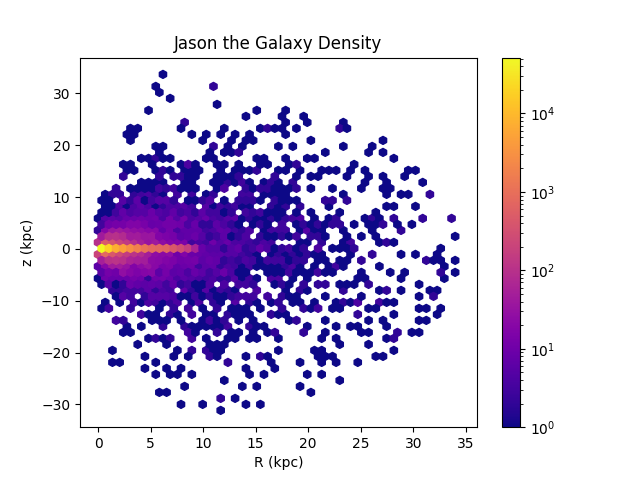
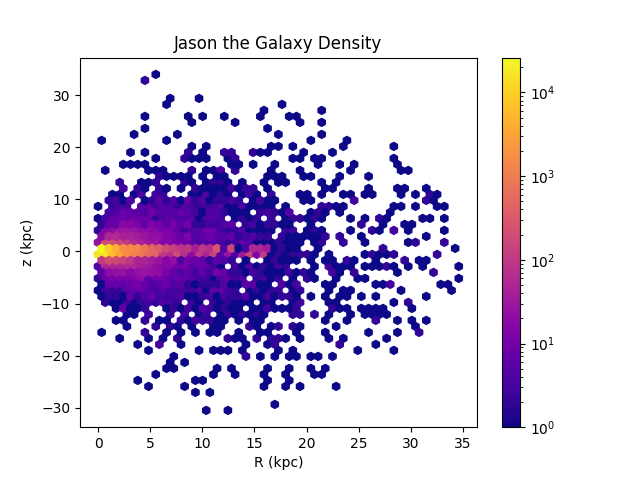
Updated rotational velocity function and added t_dyn

diff --git a/backend/galaxy_distribution2.py b/backend/galaxy_distribution2.py
@@ -3,33 +3,54 @@ import matplotlib.pyplot as plt
 import json
 import astropy.units as u
 from mcmc import metropolis_hastings
-from galpy.potential import MiyamotoNagaiPotential, HernquistPotential, NFWPotential
+from galpy.potential import MiyamotoNagaiPotential, HernquistPotential, NFWPotential, vcirc, tdyn, mass
 from galaxy_intitialisation import elliptical_galaxy_gen
+from tqdm import tqdm
 
 # Galaxy generation function
 class Galaxy:
-    def __init__(self, name, components, num_bodies=1000000, g_const=1, pos_units=u.kpc, vel_units=u.km/u.s, mass_units=u.M_sun, density_units=u.M_sun/u.kpc**3, potential_units=u.km**2/u.s**2, time_units=u.Gyr, angle_units=u.rad):
-        self.name = name
-        self.components = components
+    def __init__(self, json_file, num_bodies=1000000, g_const=1, force_update=False, pos_units=u.kpc, vel_units=u.km/u.s, mass_units=u.M_sun, density_units=u.M_sun/u.kpc**3, potential_units=u.km**2/u.s**2, time_units=u.Gyr, angle_units=u.rad):
+        # Load JSON file
+        with open(json_file, 'r') as f:
+            galaxy_json = json.load(f)
+        
+        self.file = json_file
+        self.name = galaxy_json['name']
+        self.components = galaxy_json['components']
         self.num_bodies = num_bodies
         self.g_const = g_const
         self.total_mass = self.get_total_mass()
         
-        # Set component potentials to galpy potentials using astropy units
-        for component in self.components:
-            for potential in component['potentials']:
-                if potential['type'] == 'Miyamoto-Nagai':
-                    parameters = potential['parameters']
-                    potential['galpy_potential'] = MiyamotoNagaiPotential(a=parameters['a']*pos_units, b=parameters['b']*pos_units, normalize=1)
-                elif potential['type'] == 'Hernquist':
-                    parameters = potential['parameters']
-                    potential['galpy_potential'] = HernquistPotential(a=parameters['a']*pos_units)
-                elif potential['type'] == 'NFW':
-                    potential['parameters'].update({'normalise': 1})
-                    potential['galpy_potential'] = NFWPotential(a=parameters['a']*pos_units)
+            
+
+        # Determine whether we need to initalise the galaxy or load it from a file
+        ## Checking that all non-dark matter components have bodies
+        if all('bodies' in component and not component['dark matter'] for component in self.components) and not force_update:
+            total_bodies = sum(len(component['bodies']['positions']) for component in self.components)
+            if np.isclose(total_bodies, num_bodies, rtol=0.1):
+                print(f"Galaxy '{self.name}' is already initalised to specified number of bodies")
+                print("Reinitialising potenials...")
+                self.set_galpy_potentials(pos_units, mass_units)
+            else:
+                print(f"Galaxy '{self.name}' has an incorrect number of bodies ({total_bodies} bodies)")
+                print("Reinitialising galaxy...")
+                self.initialise_galaxy(pos_units, mass_units)
+        else:
+            if force_update:
+                print("Forcing galaxy reinitialisation...")
+            else:
+                print(f"Galaxy '{self.name}' has no bodies")
+                print("Initialising galaxy...")
+            self.initialise_galaxy(pos_units, mass_units)
+        
+    # Initialise galaxy from the provided JSON file
+    def initialise_galaxy(self, pos_units, mass_units):
+        # Set galpy potentials for each component
+        self.set_galpy_potentials(pos_units, mass_units)
         
         # Calculate total potential of galaxy to use for rotational velocity
         self.total_potential = self.get_total_potential()
+        self.rotational_velocities = []
         
         # Generate bodies from components
         for component in self.components:
@@ -37,8 +58,27 @@ class Galaxy:
                 num_bodies_comp = round((self.get_component_mass(component)/self.total_mass) * self.num_bodies) # Number of bodies in component
                 positions = self.generate_positions(component, num_bodies_comp)
                 velocities = self.generate_velocities(positions, self.total_potential)
-                component.update({'bodies': {'positions': positions, 'velocities': velocities}})
-                  
+                masses = np.full(num_bodies_comp, self.get_component_mass(component)/num_bodies_comp)
+                component.update({'bodies': {'positions': positions, 'velocities': velocities, 'masses': masses}})
+                
+        # Update JSON file with galaxy data
+        #self.export_galaxy(f'backend/galaxies/{self.name}.json')
+    
+    # Set galpy potentials for each component
+    def set_galpy_potentials(self, pos_units, mass_units):
+        # Set component potentials to galpy potentials using astropy units
+        for component in self.components:
+            for potential in component['potentials']:
+                if potential['type'] == 'Miyamoto-Nagai':
+                    parameters = potential['parameters']
+                    potential['galpy_potential'] = MiyamotoNagaiPotential(amp=parameters['mass']*mass_units, a=parameters['a']*pos_units, b=parameters['b']*pos_units)
+                elif potential['type'] == 'Hernquist':
+                    parameters = potential['parameters']
+                    potential['galpy_potential'] = HernquistPotential(amp=parameters['mass']*mass_units, a=parameters['a']*pos_units)
+                elif potential['type'] == 'NFW':
+                    potential['parameters'].update({'normalise': 1})
+                    potential['galpy_potential'] = NFWPotential(amp=parameters['mass']*mass_units, a=parameters['a']*pos_units)
+        
                     
     # Get total mass of galaxy from all components    
     def get_total_mass(self):
@@ -63,9 +103,11 @@ class Galaxy:
             for potential in component['potentials']:
                 potentials.append(potential['galpy_potential'])
         
-        total_potential = potentials[0]
-        for potential in potentials[1:]:
-            total_potential += potential
+        total_potential = potentials
+        """for potential in potentials[1:]:
+            total_potential.__add__(potential)"""
+        
+        print(f"Total potential: {total_potential}")
         
         return total_potential
     
@@ -135,11 +177,54 @@ class Galaxy:
                         max_radius = potential['parameters']['a']
         return max_radius
     
-    def generate_velocities(self, bodies, total_potential):
-        pass
+    def generate_velocities(self, positions, total_potential):
+        velocities = np.empty((0, 3))
+        
+        for position in tqdm(positions):
+            radius = np.sqrt(position[0]**2 + position[1]**2 + position[2]**2)
+            
+            # Calculate the rotational speed of the body
+            #v_circ = total_potential.vcirc(radius)
+            v_circ = vcirc(total_potential, radius * u.kpc) #!!
+            
+            # Find the unit vector perpendicular to the direction of the body
+            velocities_direction = np.array([-position[1], position[0], 0])
+            velocities_direction /= np.linalg.norm(velocities_direction)
+            
+            # Calculate the rotational velocity of the body
+            velocity = velocities_direction * v_circ
+            velocities = np.vstack((velocities, velocity))
+            self.rotational_velocities.append([v_circ, radius])
+        
+        return velocities
     
     def plot_rotational_vel(self):
-        pass
+        r = np.linspace(1e-10, self.get_galaxy_max_radius(), 1000)
+        
+        plt.figure()
+        
+        for component in self.components:
+            total_component_potential = component['potentials'][0]['galpy_potential']
+            for potential in component['potentials'][1:]:
+                total_component_potential.__add__(potential['galpy_potential'])
+            v_circ_component = total_component_potential.vcirc(r * u.kpc)
+            #print(f"v_circ for {component['name']}: {v_circ_component}")
+            
+            plt.plot(r, v_circ_component, label=component['name'], linestyle='--')
+        
+        #v_circ_total = self.total_potential.vcirc(r * u.kpc)
+        v_circ_total = vcirc(self.total_potential, r * u.kpc)
+        plt.plot(r, v_circ_total, label='Total')
+        plt.legend()
+        plt.title(f'{self.name} Rotational Velocity')
+        plt.xlabel('r (kpc)')
+        plt.ylabel('v_circ (km/s)')
+        plt.savefig(f'backend/galaxy_plots/{self.name}_rotational_velocity.png')
+        plt.show()
+            
+            
+                
+        
     
     # Plot density of galaxy in a hexbin plot (as function of R and z)
     def plot_scatter_density(self):
@@ -176,6 +261,64 @@ class Galaxy:
         #plt.xscale('log')
         #plt.savefig(f'backend/galaxy_plots/{self.name}_component_scatter.png')
         plt.show()
+    
+    # Plot galaxy as a 3D scatter plot and side on views (2x2 plot)
+    def plot_full_galaxy(self):
+        positions = np.empty((0, 3))
+        for component in self.components:
+            if 'bodies' in component:
+                positions = np.vstack((positions, component['bodies']['positions']))
+        
+        fig, axs = plt.subplots(2, 2, figsize=(8, 8))  # Increase the figure size
+        
+        ## 3D plot
+        ax = fig.add_subplot(2, 2, 1, projection='3d')
+        ax.scatter(positions[:, 0], positions[:, 1], positions[:, 2], s=1)
+        ax.set_title("3D view")
+        
+        ## Remove empty graph/axes for the 3D plot
+        fig.delaxes(axs[0, 0])
+        
+        ## 2D Side view
+        ax = axs[0, 1]
+        #ax.scatter(positions[:, 1], positions[:, 2], s=1)
+        hb = ax.hexbin(positions[:, 1], positions[:, 2], gridsize=50, cmap='plasma', bins='log')
+        hb.set_facecolor('black')  # Set the hexbin plot background color to black
+        ax.set_title("2D Side view")
+        ax.set_aspect('equal', 'box')
+        
+        ## 2D Top view
+        ax = axs[1, 0]
+        #ax.scatter(positions[:, 0], positions[:, 1], s=1)
+        hb = ax.hexbin(positions[:, 0], positions[:, 1], gridsize=50, cmap='plasma', bins='log')
+        hb.set_facecolor('black')  # Set the hexbin plot background color to black
+        ax.set_title("2D Top view")
+        ax.set_aspect('equal', 'box')
+        
+        ## 2D Front view
+        ax = axs[1, 1]
+        #ax.scatter(positions[:, 0], positions[:, 2], s=1)
+        ax.hexbin(positions[:, 0], positions[:, 2], gridsize=50, cmap='plasma', bins='log', facecolor='black')
+        ax.set_title("2D Front view")
+        ax.set_aspect('equal', 'box')
+        
+        plt.tight_layout()
+        plt.show()
+        
+    # Calculate dynamical time of galaxy
+    def get_t_dyn(self):
+        t_dyn = tdyn(self.total_potential, self.get_galaxy_max_radius() * u.kpc)
+        return t_dyn
+    
+    # Export galaxy 
+    def export_galaxy(self, filename):
+        components_copy = self.components.copy()
+        for component in components_copy:
+            for potential in component['potentials']:
+                del potential['galpy_potential']
+                
+        with open(filename, 'w') as f:
+            json.dump({'name': self.name, 'components': components_copy}, f, indent=4)
         
         
         
@@ -186,12 +329,13 @@ class Galaxy:
     
 
 def main():
-    with open('backend/galaxies/paper_galaxy.json', 'r') as f:
-        galaxy_json = json.load(f)
-    galaxy = Galaxy(galaxy_json['name'], galaxy_json['components'], num_bodies=100000)
+    galaxy = Galaxy('backend/galaxies/paper_galaxy.json', num_bodies=10000)
     print(galaxy.total_mass)
-    galaxy.plot_scatter_density()
+    """galaxy.plot_scatter_density()
     galaxy.plot_component_scatter()
+    galaxy.plot_rotational_vel()"""
+    #galaxy.plot_full_galaxy()
+    print(f"Dynamical time: {galaxy.get_t_dyn()} Gyr")
     
     
 if __name__ == "__main__":
